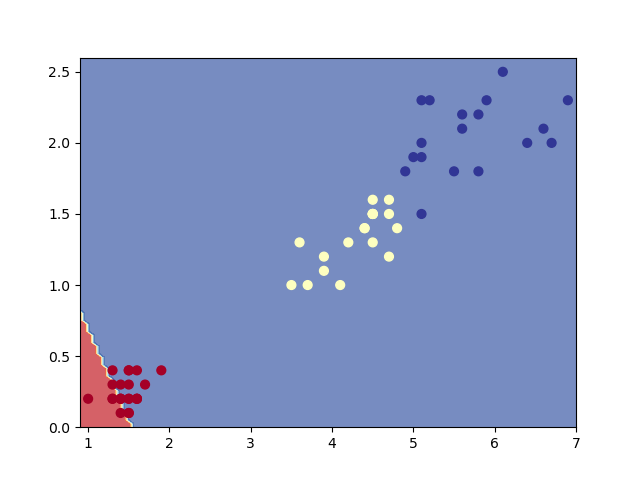
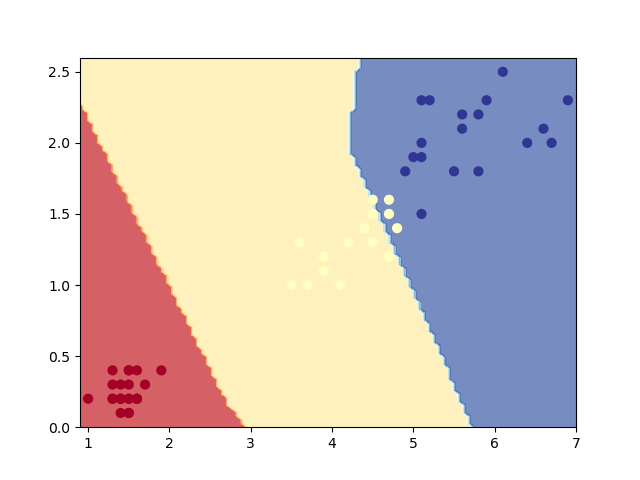
重新生成图片

diff --git a/iris-partial.py b/iris-partial.py
@@ -72,7 +72,7 @@ class Classifier:
         self.optimum.step(self.loss)
 
 
-classifier = Classifier(RMSEGD(lr=0.01))
+classifier = Classifier(SGD(lr=0.01))
 
 # %% train model
 
@@ -86,12 +86,19 @@ acc = 100 * (np.sum(y_pred == y_test) / len(y_test))
 acc_record.append(acc)
 
 best_acc = 0
-#epochs = 100
-epoch = 0
-while best_acc < 100:
+epochs = 100
+for epoch in range(1, epochs + 1):
     # train loop
     for ax, ay in zip(X_train, y_train):
         classifier.fit(ax, ay)
+
+    # test loop
+    train_y_logits = []
+    for ax in X_train:
+        train_y_logits.append(classifier(ax))
+    y_pred_train = np.array([softmax(ay).argmax() for ay in train_y_logits])
+
+    train_acc = 100 * (np.sum(y_pred_train == y_train) / len(y_train))
 
     # test loop
     y_logits = []
@@ -104,10 +111,10 @@ while best_acc < 100:
 
     if acc > best_acc:
         best_acc = acc
-        plot_decision_boundary(classifier, X_test, y_test, 'images/rmsegd_boundary.png')
+        plot_decision_boundary(classifier, X_test, y_test, 'images/sgd_boundary.png')
 
-    print(f'[{epoch}] Accuracy: {acc:.2f}, Best Accuracy: {best_acc:.2f}')
-    epoch += 1
+    print(f'[{epoch}] Accuracy: {acc:.2f}%, Train Acc: {train_acc:.2f}%, '
+          f'Best Accuracy: {best_acc:.2f}%')
 
 idx = np.argmax(acc_record)
 max_v = np.max(acc_record)
@@ -118,5 +125,5 @@ plt.grid(True)
 plt.scatter(idx, max_v, marker='x', color='r', s=50, label='Max value')
 plt.text(idx, max_v, f'epoch:{idx}\naccuracy:{max_v:.2f}%',
          color='black', fontsize=14, ha='center', va='bottom')
-plt.savefig(f'images/rmsegd_accuracy_figure.png')
+plt.savefig(f'images/sgd_accuracy_figure.png')
 plt.show()
